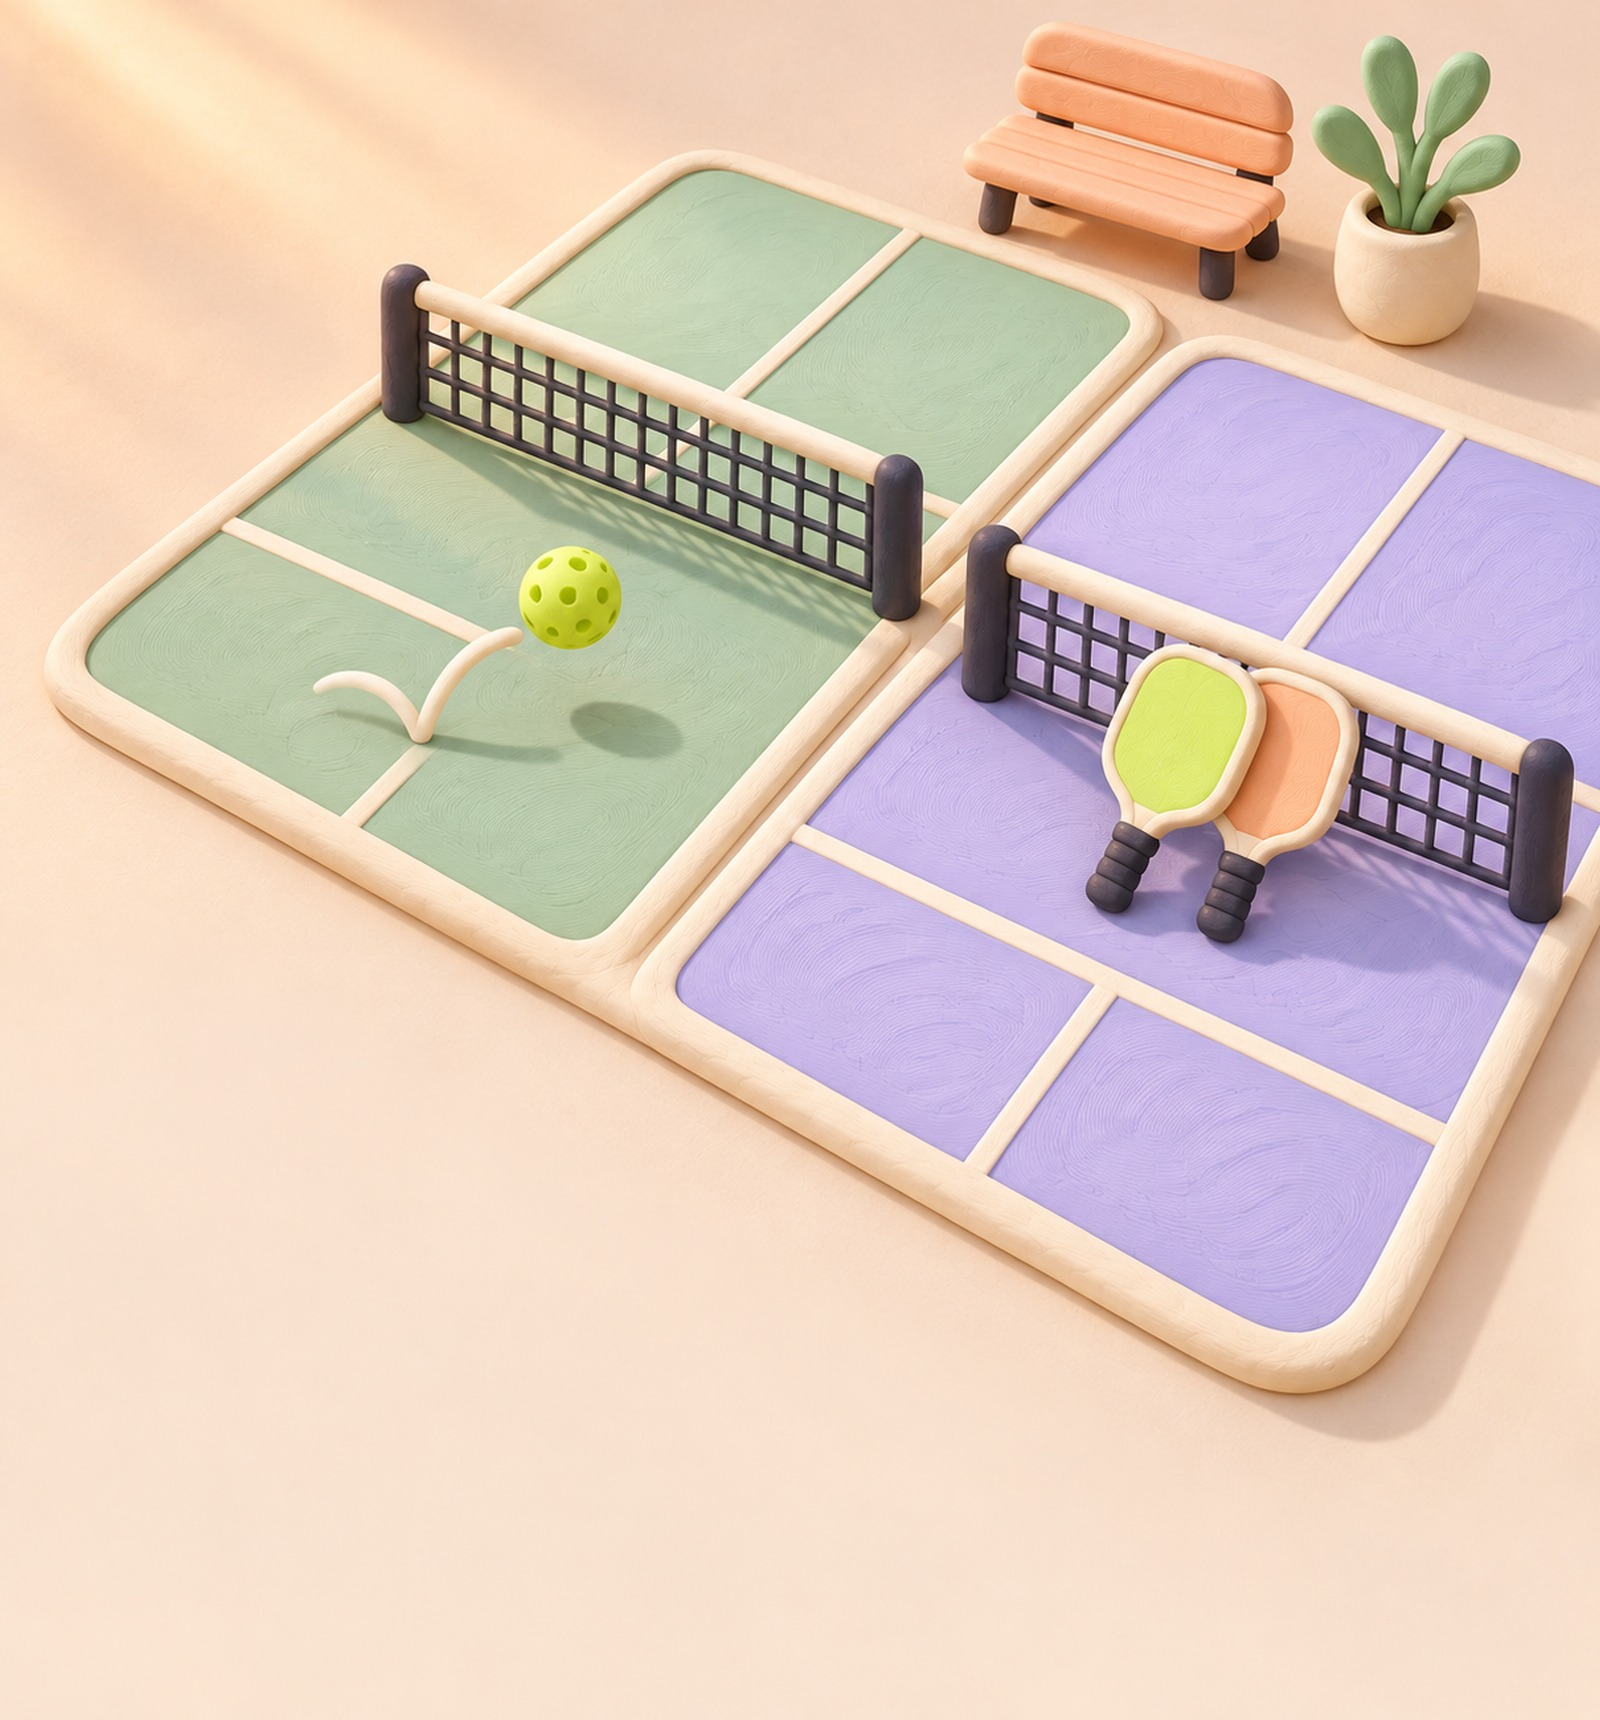
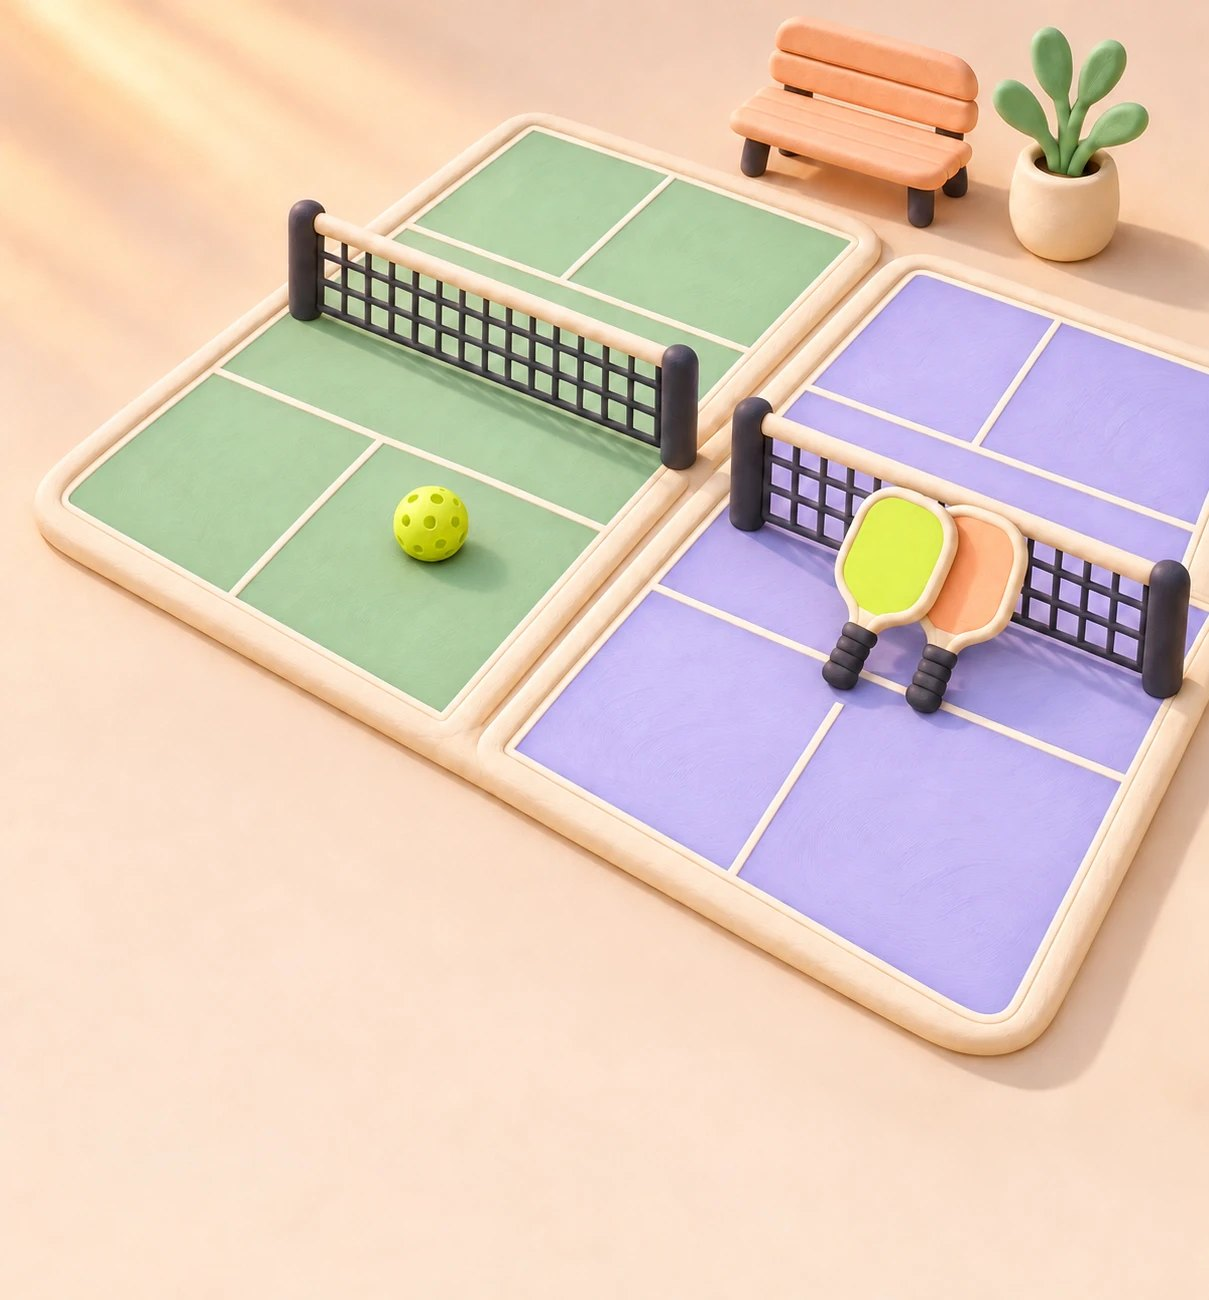
New hero image; finish profile after sign-in; clearer email errors

diff --git a/src/ctx.tsx b/src/ctx.tsx
@@ -1,6 +1,6 @@
 import { createContext, useCallback, useContext, useEffect, useState, type ReactNode } from 'react';
 import { api } from './api';
-import { useSession, type Club, type Me } from './lib';
+import { errText, useSession, type Club, type Me } from './lib';
 
 type Ctx = {
   club: Club;
@@ -11,15 +11,37 @@ type Ctx = {
 const C = createContext<Ctx | null>(null);
 export const useApp = () => useContext(C)!;
 
+type Pending = { email: string; name: string; consent: boolean };
+const readPending = (): Pending | null => { try { return JSON.parse(localStorage.getItem('pending_profile') || 'null'); } catch { return null; } };
+const clearPending = () => { try { localStorage.removeItem('pending_profile'); } catch { /* ignore */ } };
+
+// One in-flight ensure_profile at a time (the code form and the link landing can both trigger it).
+let inflight: Promise<Me> | null = null;
+export function ensureProfile(club: string, name: string, consent: boolean): Promise<Me> {
+  inflight ??= api.rpc<Me>('ensure_profile', { p_club: club, p_name: name, p_phone: null, p_consent: consent })
+    .finally(() => { inflight = null; });
+  return inflight.then((m) => { clearPending(); return m; });
+}
+
 export function AppProvider({ club, children }: { club: Club; children: ReactNode }) {
   const session = useSession();
   const [me, setMe] = useState<Me | null>(null);
   const [t, setT] = useState<{ msg: string; kind: string; id: number } | null>(null);
 
   const refreshMe = useCallback(async () => {
-    if (!api.session()) { setMe(null); return null; }
-    try { const m = await api.rpc<Me>('me'); setMe(m); return m; } catch { setMe(null); return null; }
-  }, []);
+    const s = api.session();
+    if (!s) { setMe(null); return null; }
+    try {
+      let m = await api.rpc<Me>('me');
+      // Signed in by the emailed link: finish the profile with what they typed before.
+      if (!m.profile || m.contact?.needs_consent) {
+        const p = readPending();
+        if (p && p.consent && p.email === s.email.toLowerCase()) m = await ensureProfile(club.id, p.name, true);
+      }
+      setMe(m);
+      return m;
+    } catch { setMe(null); return null; }
+  }, [club.id]);
   useEffect(() => { refreshMe(); }, [session, refreshMe]);
 
   const toast = useCallback((msg: string, kind: 'ok' | 'err' | 'info' = 'ok') => {
@@ -28,10 +50,36 @@ export function AppProvider({ club, children }: { club: Club; children: ReactNod
     setTimeout(() => setT((x) => (x?.id === id ? null : x)), 3200);
   }, []);
 
+  const needsFinish = !!session && !!me && (!me.profile || !!me.contact?.needs_consent);
+
   return (
     <C.Provider value={{ club, me, refreshMe, toast }}>
       {children}
+      {needsFinish && <FinishProfile club={club.id} onDone={async () => { await refreshMe(); toast('You’re signed in'); }} />}
       {t && <div className={`toast ${t.kind}`} role="status">{t.msg}</div>}
     </C.Provider>
+  );
+}
+
+/** Shown only when someone arrives signed in (via link) without a profile or consent. */
+function FinishProfile({ club, onDone }: { club: string; onDone: () => void }) {
+  const [name, setName] = useState('');
+  const [consent, setConsent] = useState(false);
+  const [busy, setBusy] = useState(false);
+  const [err, setErr] = useState('');
+  return (
+    <div className="scrim">
+      <form className="sheet stack" style={{ gap: 16 }} onSubmit={async (e) => {
+        e.preventDefault(); setBusy(true); setErr('');
+        try { await ensureProfile(club, name, consent); onDone(); } catch (x) { setErr(errText(x)); setBusy(false); }
+      }}>
+        <div className="sheet-head"><h2>One last step</h2><button type="button" className="btn sm ghost" onClick={() => api.signOut()}>Sign out</button></div>
+        <label className="field"><span>Name</span><input className="input" autoComplete="name" value={name} onChange={(e) => setName(e.target.value)} placeholder="Juan dela Cruz" /></label>
+        <label className="check"><input type="checkbox" checked={consent} onChange={(e) => setConsent(e.target.checked)} />
+          <span>I agree to the <a href="#/privacy" target="_blank" rel="noreferrer">privacy notice</a></span></label>
+        {err && <div className="note err">{err}</div>}
+        <button className="btn primary lg block" disabled={busy || !consent}>Continue</button>
+      </form>
+    </div>
   );
 }

diff --git a/src/components/SignIn.tsx b/src/components/SignIn.tsx
@@ -1,6 +1,6 @@
 import { useRef, useState } from 'react';
 import { api } from '../api';
-import { useApp } from '../ctx';
+import { ensureProfile, useApp } from '../ctx';
 import { errText, type Me } from '../lib';
 import { Spinner } from './Sheet';
 
@@ -22,6 +22,7 @@ export function SignIn({ onDone }: { onDone: (me: Me) => void }) {
   async function send() {
     setBusy(true); setErr('');
     try {
+      try { localStorage.setItem('pending_profile', JSON.stringify({ email: email.trim().toLowerCase(), name, consent })); } catch { /* private mode */ }
       const r = await api.sendCode(email.trim());
       setDemoCode(r.demoCode);
       setStep('code');
@@ -35,9 +36,7 @@ export function SignIn({ onDone }: { onDone: (me: Me) => void }) {
     try {
       await api.verifyCode(email.trim(), c);
       let me = await api.rpc<Me>('me');
-      if (!me.profile || me.contact?.needs_consent) {
-        me = await api.rpc<Me>('ensure_profile', { p_club: club.id, p_name: name, p_phone: null, p_consent: consent });
-      }
+      if (!me.profile || me.contact?.needs_consent) me = await ensureProfile(club.id, name, consent);
       await refreshMe();
       onDone(me);
     } catch (e) { setErr(errText(e)); setCode(''); setBusy(false); }
@@ -46,7 +45,7 @@ export function SignIn({ onDone }: { onDone: (me: Me) => void }) {
   if (step === 'code') {
     return (
       <form className="stack" style={{ gap: 18 }} onSubmit={(e) => { e.preventDefault(); verify(); }}>
-        <p className="muted">We sent a 6-digit code to <b style={{ color: 'var(--ink)' }}>{email}</b></p>
+        <p className="muted">We emailed a code to <b style={{ color: 'var(--ink)' }}>{email}</b>. Type the 6-digit code from it.</p>
         {demoCode && (
           <div className="note info">
             <span>Demo code <b className="num" style={{ letterSpacing: '.2em', fontSize: '1.1rem' }}>{demoCode}</b></span>

diff --git a/src/api.ts b/src/api.ts
@@ -139,7 +139,8 @@ function demoBackend(): Backend {
 function liveBackend(url: string, key: string): Backend {
   let sess: Session = null;
   const clientP = import('@supabase/supabase-js').then(({ createClient }) => {
-    const c = createClient(url, key);
+    // implicit flow: the emailed link works on any device/browser, not only the one that asked
+    const c = createClient(url, key, { auth: { flowType: 'implicit', detectSessionInUrl: true, persistSession: true } });
     c.auth.getSession().then(({ data }) => {
       sess = data.session ? { email: data.session.user.email ?? '', sub: data.session.user.id } : null;
       emitAuth();
@@ -158,14 +159,21 @@ function liveBackend(url: string, key: string): Backend {
     },
     async sendCode(email) {
       const c = await clientP;
-      const { error } = await c.auth.signInWithOtp({ email, options: { shouldCreateUser: true } });
-      if (error) throw new ApiError(error.status === 429 ? 'slow_down' : 'send_failed');
+      const { error } = await c.auth.signInWithOtp({
+        email,
+        options: { shouldCreateUser: true, emailRedirectTo: location.origin + import.meta.env.BASE_URL },
+      });
+      if (error) {
+        const m = (error.message || '').toLowerCase();
+        throw new ApiError(error.status === 429 || m.includes('rate') ? 'slow_down'
+          : m.includes('not authorized') || m.includes('not allowed') ? 'email_not_allowed' : 'send_failed', error.message);
+      }
       return {};
     },
     async verifyCode(email, code) {
       const c = await clientP;
       const { error } = await c.auth.verifyOtp({ email, token: code.trim(), type: 'email' });
-      if (error) throw new ApiError('bad_code');
+      if (error) throw new ApiError(error.status === 429 ? 'slow_down' : 'bad_code');
     },
     async signOut() { const c = await clientP; await c.auth.signOut(); },
   };

diff --git a/src/lib.ts b/src/lib.ts
@@ -61,7 +61,8 @@ const ERR: Record<string, string> = {
   consent_required: 'Please accept the privacy notice.',
   staff_only: 'Staff only.',
   bad_code: 'Wrong or expired code.',
-  send_failed: 'Could not send the code.',
+  send_failed: 'Could not send the code. Try again in a minute.',
+  email_not_allowed: 'This email can’t get codes yet. Ask the desk.',
   not_found: 'No booking with that code.',
   not_yours: 'That booking is not yours.',
   cannot_cancel: 'This booking can’t be cancelled.',
